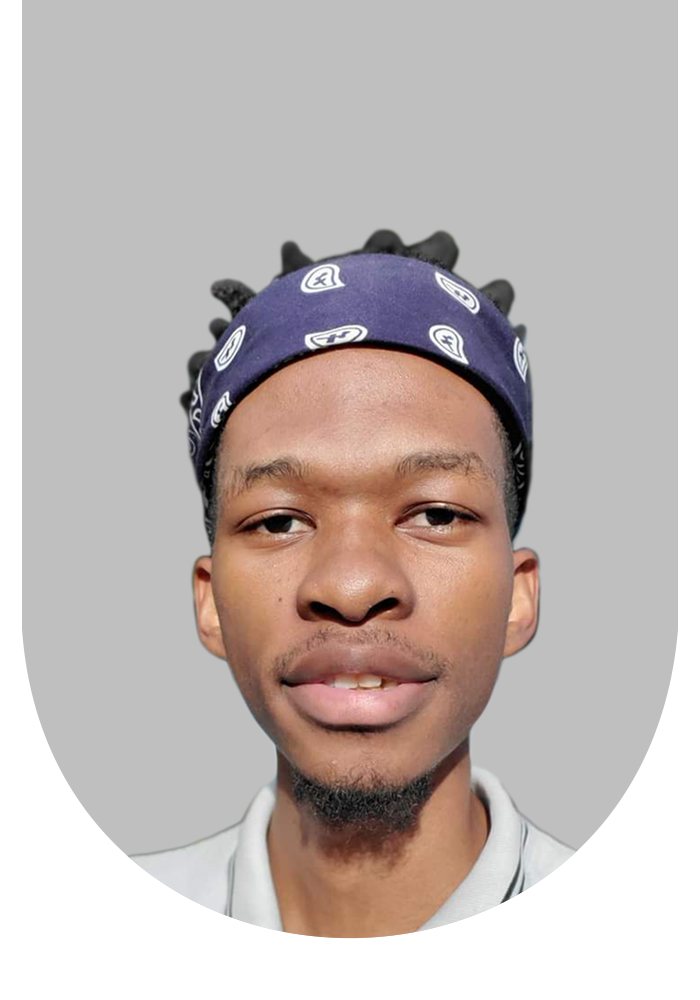
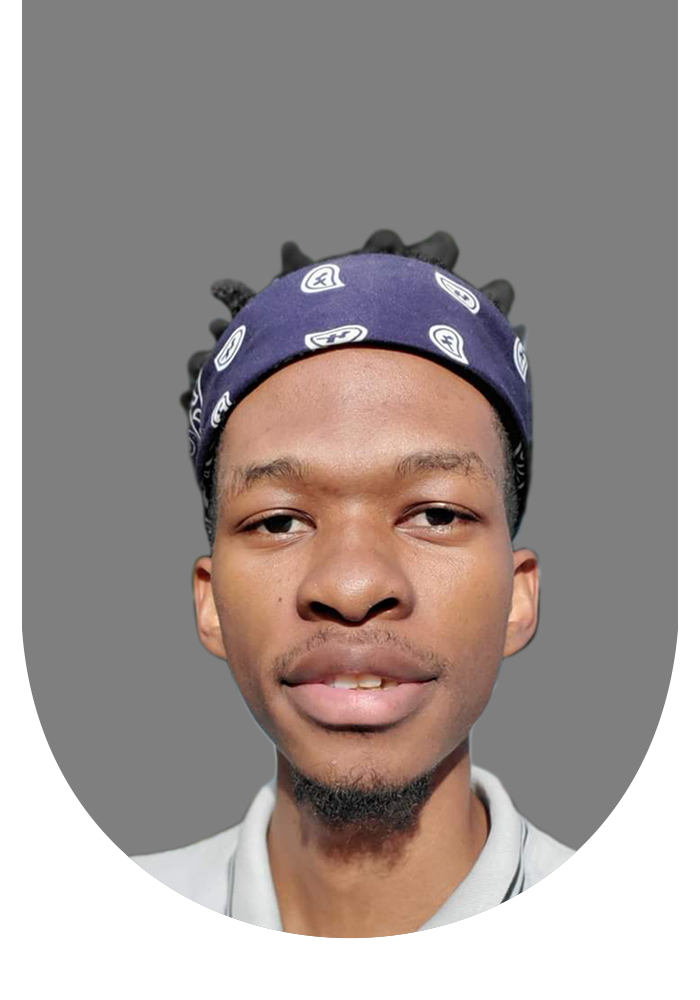
asset changes

diff --git a/pages/home_page/homeFX.css b/pages/home_page/homeFX.css
@@ -62,13 +62,16 @@ body{
     padding: 0;
     font-size: var(--mobile_default_fontsize) !important;
 
-    background-color: var(--orange-pallete-1);
-    background-image: url(../../images/page_background.png);
-    background-repeat: repeat;
-    -webkit-backdrop-filter: blur(1px);
-	backdrop-filter: blur(1px);
+    background-image: url(../../images/background_potrait.png);
+    background-repeat: no-repeat;
+    background-size: contain;
+    background-position-x: center;
     
     font-family: arial,sans-serif;
+}
+
+#backdrop{
+    background-color: rgba(0, 0, 0, 0.5);
 }
 
 .centeredInParent{
@@ -116,7 +119,7 @@ a{
 
 #authorDPContainer{
     justify-self: center;
-    width: 60%;
+    width: 70%;
     margin: 0 auto;
     display: flex;
     flex-flow: row nowrap;
@@ -186,17 +189,16 @@ a{
 #menu{
     opacity: 0;
     transition: opacity 0.5s ease;
-    position: -webkit-sticky; /* Safari */
+    position: -webkit-sticky;
     position: sticky;
     z-index: 100;
     top: 0;
-    background-color: rgba(255, 136, 0, 0.7);
     box-shadow: 0 2px 10px 2px rgba(0, 0, 0, 0.4);
     
-    -webkit-backdrop-filter: blur(var(--intensity5x));
-	backdrop-filter: blur(var(--intensity5x));
-    border-bottom-right-radius: var(--radius20);
-    border-bottom-left-radius: var(--radius20);
+    -webkit-backdrop-filter: blur(var(--intensity30x));
+	backdrop-filter: blur(var(--intensity30x));
+    border-bottom-right-radius: var(--radius10);
+    border-bottom-left-radius: var(--radius10);
 
     box-sizing: border-box;
     border: solid 2px var(--faint_gray);
@@ -208,8 +210,8 @@ a{
     flex-flow: row nowrap;
     justify-content: space-between;
     align-items: center;
-    border-bottom-right-radius: var(--radius20);
-    border-bottom-left-radius: var(--radius20);
+    border-bottom-right-radius: var(--radius10);
+    border-bottom-left-radius: var(--radius10);
 
     box-sizing: border-box;
     padding: 10px;
@@ -244,8 +246,8 @@ a{
     column-gap: 40px;
     row-gap: 10px;
     background-color: var(--orange-pallete-1);
-    border-bottom-right-radius: var(--radius20);
-    border-bottom-left-radius: var(--radius20);
+    border-bottom-right-radius: var(--radius10);
+    border-bottom-left-radius: var(--radius10);
 
     box-sizing: border-box;
     padding: 10px;
@@ -256,10 +258,8 @@ a{
 }
 
 .sectionLink{
-    width: -moz-fit-content;
-    width: fit-content;
+    display: block;
     color: #fff;
-    font-size: var(--H1-1);
     box-sizing: border-box;
     padding: 5px 0;
 }
@@ -393,14 +393,13 @@ a{
 }
 
 .skillIcon{
-    height: 15px;
-    width: 15px;
+    height: 20px;
+    width: 20px;
 }
 
 .skill{
     color: #fff;
     margin: 0 15px;
-    font-weight: bold;
 }
 
 .skillDescription{
@@ -465,13 +464,13 @@ a{
     background: linear-gradient(#ddd, transparent, transparent);
 
     box-sizing: border-box;
-    padding: 0 30px 100px 30px;
+    padding: 0 20px 100px 20px;
 }
 
 .projectTypeTitle{
     color: #fff;
     background-color: #ddd;
-    font-size: var(--H1-2);
+    font-size: var(--H1-1);
 
     box-sizing: border-box;
     padding: 20px;
@@ -521,7 +520,7 @@ a{
     color: #fff;
     text-align: center;
     font-weight: bold;
-    font-size: var(--H1-4);
+    font-size: var(--H1-1);
 
     box-sizing: border-box;
     padding: 20px;
@@ -559,10 +558,10 @@ a{
 .serviceTypeTitle{
     color: #fff;
     background-color: #ddd;
-    font-size: var(--H1-2);
+    font-size: var(--H1-1);
 
     box-sizing: border-box;
-    padding: 10px 20px 20px 20px;
+    padding: 20px;
     
     border-top-right-radius: var(--radius10);
     border-top-left-radius: var(--radius10);
@@ -644,7 +643,7 @@ a{
 }
 
 .footerContentContainer{
-    width: 250px;
+    width: 100%;
 }
 
 .FCCheader{
@@ -662,19 +661,13 @@ a{
     display: block;
     width: -moz-fit-content;
     width: fit-content;
-    color: #fff;
-    font-weight: bold;
-    background-color: var(--faint_gray);
+    color: var(--gray);
+    background-color: #fff;
     border-radius: 100px;
 
     box-sizing: border-box;
     padding: 5px 10px;
     margin: 10px 0;
-}
-
-.footer{
-    display: block;
-    font-size: var(--mobile_default_fontsize) !important;
 }
 
 #copyright_txt{
@@ -689,6 +682,10 @@ a{
 
 @media only screen and (min-width: 660px)
 {
+
+    #authorDPContainer{
+        width: 35%;
+    }
 
     .projectCard{
         width: 250px;
@@ -715,6 +712,10 @@ a{
         justify-content: start;
     }
 
+    .footerContentContainer{
+        width: unset;
+    }
+
 }
 
 /*OPTIMIZATION FOR WIDER SCREENS ||  LAPTOPS */
@@ -722,9 +723,14 @@ a{
 @media only screen and (min-width: 1000px)
 {
 
-    /* body{
-        font-size: var(--desktop_default_fontsize) !important;
-    } */
+    body{
+        background-image: url(../../images/background_landscape.png);
+        background-size: cover;
+    }
+
+    #authorDPContainer{
+        width: 70%;
+    }
 
     #contentContainer{
         height: 100vh;
@@ -732,7 +738,6 @@ a{
         overflow-y: auto;
 
         display: grid;
-        grid-auto-flow: row;
         grid-template-columns: 20% 1fr;
         grid-template-rows: auto 1fr;
     }
@@ -742,7 +747,7 @@ a{
         grid-row: 2 !important;
         overflow-y: auto;
 
-        border-top-left-radius: var(--radius10);
+        border-top-left-radius: var(--radius20);
     }
 
     #pageHeader{
@@ -764,14 +769,18 @@ a{
     }
 
     #menu{
+        height: 50px;
         position: static;
         opacity: 1 !important;
         grid-column: 2 !important;
         grid-row: 1 !important;
-        border-radius: 0;
         border: none;
-        background-color: transparent;
+        border-radius: 0;
+        background: none  !important;
         box-shadow: none;
+        
+        -webkit-backdrop-filter: blur(0);
+	    backdrop-filter: blur(0);
     }
 
     #topBar{
@@ -780,7 +789,7 @@ a{
 
     #bottomBar{
         display: flex !important;
-        background-color: transparent;
+        background: none !important;
         column-gap: 60px;
     }
 

diff --git a/pages/home_page/home.html b/pages/home_page/home.html
@@ -627,13 +627,13 @@
 
                             <div class="FCCbody">
 
-                                <a href="#aboutSection" class="sectionLink footer">About</a>
+                                <a href="#aboutSection" class="sectionLink">About</a>
 
-                                <a href="#skillsSection" class="sectionLink footer">Skills</a>
+                                <a href="#skillsSection" class="sectionLink">Skills</a>
                 
-                                <a href="#projectsSection" class="sectionLink footer">Projects</a>
+                                <a href="#projectsSection" class="sectionLink">Projects</a>
                 
-                                <a href="#servicesSection" class="sectionLink footer">Services</a>
+                                <a href="#servicesSection" class="sectionLink">Services</a>
 
                             </div>
 
